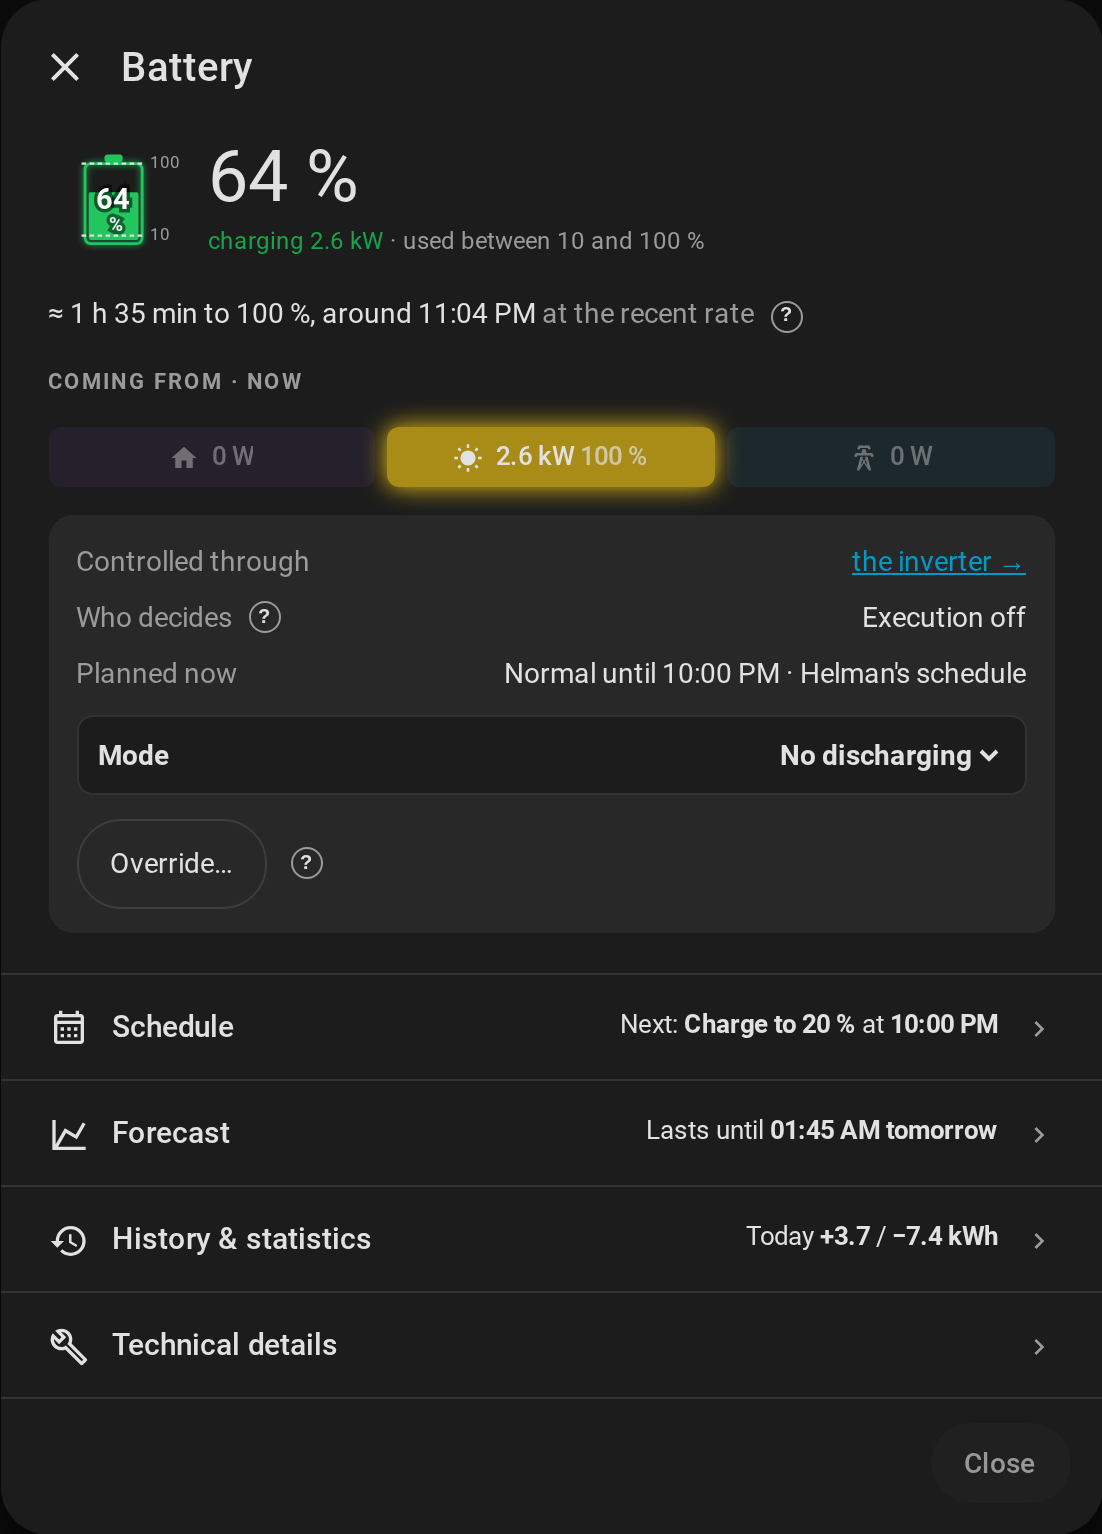
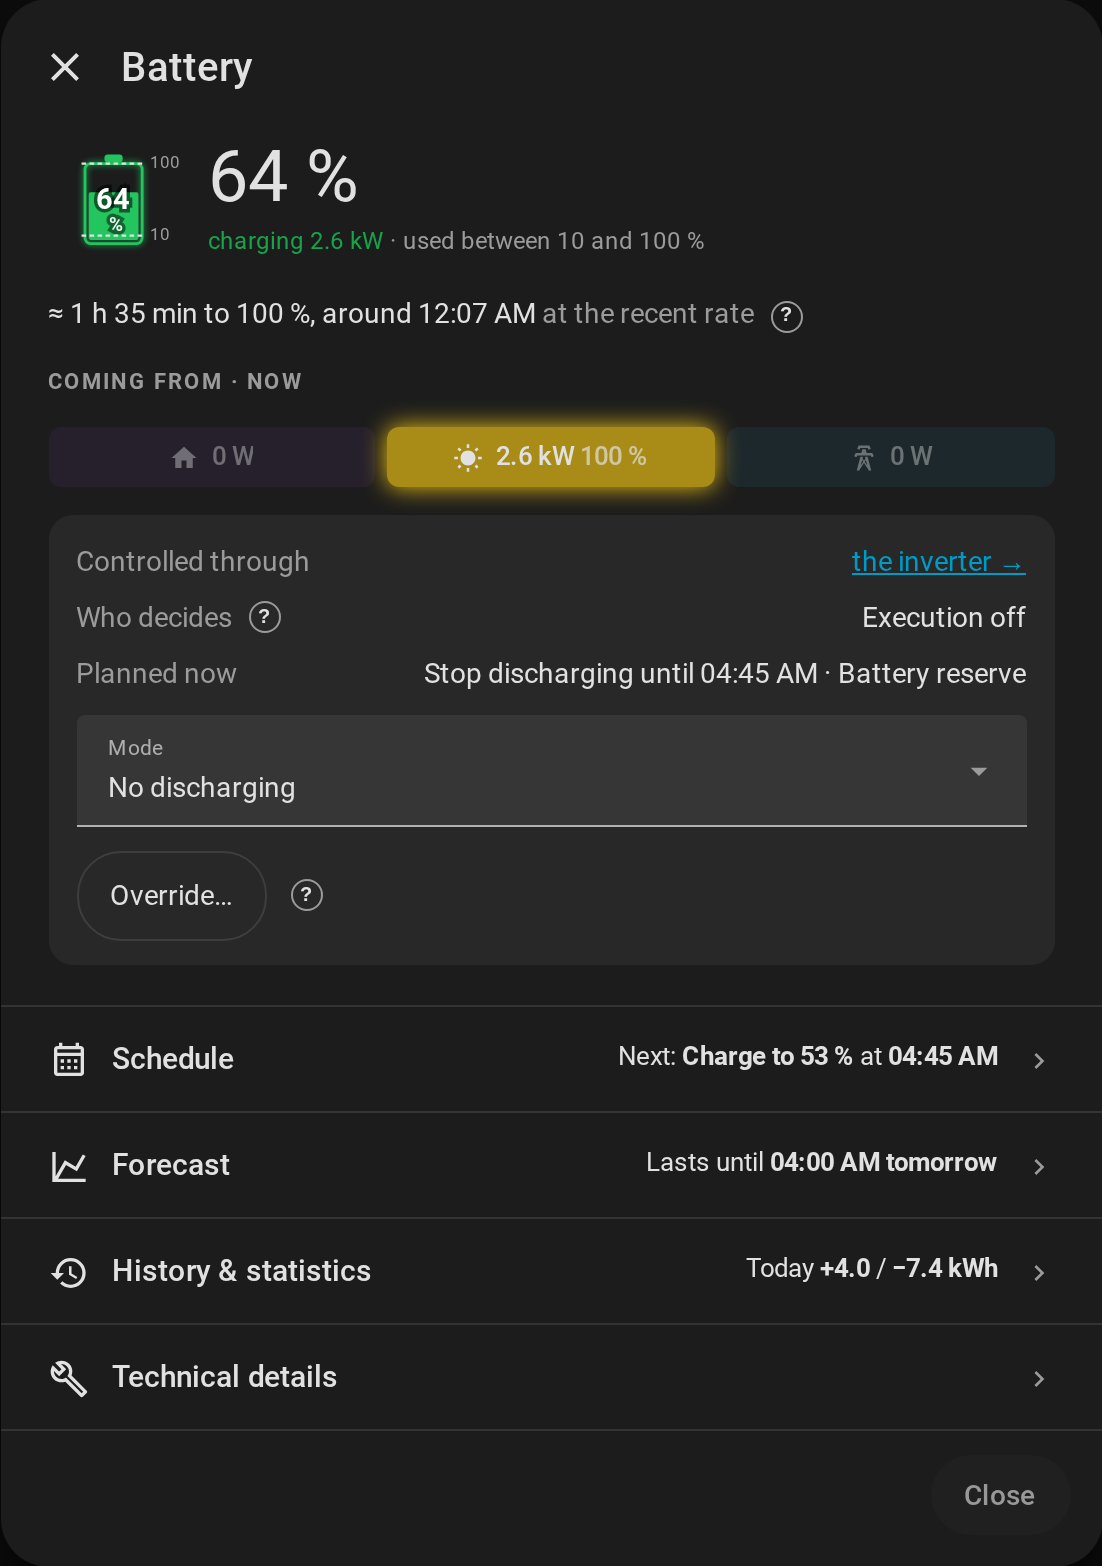
fix: use ha-select for the mode dropdown
The native select's popup did not look like Home Assistant. The >3-option mode picker now renders HA's own ha-select, and the inverter and battery docs screenshots are re-captured.

Claude-Session: https://claude.ai/code/session_018gkWQWBXzhucAVn7CvLVH2

diff --git a/frontend/cards/node-detail/option-segments.ts b/frontend/cards/node-detail/option-segments.ts
@@ -1,6 +1,5 @@
 import { LitElement, css, html, nothing } from "lit";
 import { customElement, property, state } from "lit/decorators.js";
-import { live } from "lit/directives/live.js";
 import type { HomeAssistant } from "../../types/ha";
 import { describeError } from "../shared/describe-error";
 import { isReadableState } from "../shared/power-reading";
@@ -10,7 +9,9 @@ export const MAX_SEGMENTS = 3;
 
 /**
  * One select entity's options on a single line: a segmented bar while they
- * fit, a dropdown named `name` when there are more. The picked option
+ * fit, Home Assistant's own select named `name` when there are more. The
+ * select shows a value that is no option as it is, so an unknown live state
+ * reads as a dash rather than as the first option. The picked option
  * follows the live state; a pick sets the option through the entity's own
  * domain, and a failed pick is said under the line. The picker is disabled
  * while the entity is unreadable, or when the caller says so.
@@ -27,14 +28,9 @@ export class HelmanOptionSegments extends LitElement {
         .segments button[aria-pressed="true"] { color: var(--primary-color);
             background: color-mix(in srgb, var(--primary-color) 18%, transparent); }
         .segments button:hover:not(:disabled):not([aria-pressed="true"]) { background: color-mix(in srgb, var(--primary-text-color) 6%, transparent); }
-        .dropdown { display: flex; align-items: center; justify-content: space-between; gap: 12px; min-height: 38px;
-            padding: 0 10px; border: 1px solid var(--divider-color); border-radius: 8px; background: var(--card-background-color); font-size: 14px; }
-        .dropdown .name { flex: none; font-weight: 600; }
-        .dropdown select { min-width: 0; padding: 8px 0; border: 0; background: none; color: inherit; font: inherit;
-            font-weight: 600; text-align: end; cursor: pointer; }
-        .dropdown select option { background: var(--card-background-color); color: var(--primary-text-color); }
-        button:focus-visible, select:focus-visible { outline: 2px solid var(--primary-color); outline-offset: -2px; }
-        button:disabled, select:disabled { opacity: 0.5; cursor: not-allowed; }
+        ha-select { display: block; }
+        button:focus-visible { outline: 2px solid var(--primary-color); outline-offset: -2px; }
+        button:disabled { opacity: 0.5; cursor: not-allowed; }
         .error { margin: 0; color: var(--error-color, #c62828); font-size: 12px; line-height: 1.4; }
     `;
 
@@ -66,12 +62,10 @@ export class HelmanOptionSegments extends LitElement {
             ${this.options.length <= MAX_SEGMENTS ? html`<div class="segments" role="group">
                 ${this.options.map((option) => html`<button type="button" data-option=${option} aria-pressed=${String(option === current)}
                     ?disabled=${disabled} @click=${() => this._select(option)}>${this.label(option)}</button>`)}
-            </div>` : html`<label class="dropdown"><span class="name">${this.name}</span>
-                <select data-dropdown .value=${live(current ?? "")} ?disabled=${disabled}
-                    @change=${(event: Event) => this._select((event.currentTarget as HTMLSelectElement).value)}>
-                    ${current !== undefined && this.options.includes(current) ? nothing : html`<option value=${current ?? ""} disabled selected>—</option>`}
-                    ${this.options.map((option) => html`<option value=${option} ?selected=${option === current}>${this.label(option)}</option>`)}
-                </select></label>`}
+            </div>` : html`<ha-select data-dropdown .label=${this.name} .disabled=${disabled}
+                .options=${this.options.map((option) => ({ value: option, label: this.label(option) }))}
+                .value=${current !== undefined && this.options.includes(current) ? current : "—"}
+                @selected=${(event: CustomEvent<{ value?: string }>) => { if (event.detail.value !== undefined) void this._select(event.detail.value); }}></ha-select>`}
             ${this._actionError ? html`<p class="error" role="alert" data-error>${this._actionError}</p>` : nothing}
         `;
     }

diff --git a/frontend/tests/node-detail-shared.spec.ts b/frontend/tests/node-detail-shared.spec.ts
@@ -1,11 +1,13 @@
 import { expect, test } from "@playwright/test";
 import { CARD_BUNDLE, loadBundle } from "./support/card-page";
 import { HA_DIALOG_STUB } from "./support/ha-dialog-stub";
+import { HA_SELECT_STUB } from "./support/ha-select-stub";
 import { onDashboard } from "./support/node-detail-harness";
 import { flowGlow } from "../cards/shared/flow-style";
 
 test.beforeEach(async ({ page }) => {
     await page.setContent("<div id='mount' style='width:320px'></div>");
+    await page.addScriptTag({ content: HA_SELECT_STUB });
     await page.addScriptTag({ path: CARD_BUNDLE, type: "module" });
     await page.waitForFunction(() => !!customElements.get("helman-flow-gauge"));
 });
@@ -365,7 +367,7 @@ async function mountPicker(page: import("@playwright/test").Page, options: strin
 test("a picker of up to three options is one segmented bar on one line, its live option pressed", async ({ page }) => {
     await mountPicker(page, ["fast", "eco", "stop"], "eco");
     const picker = page.locator("helman-option-segments");
-    await expect(picker.locator("select")).toHaveCount(0);
+    await expect(picker.locator("ha-select")).toHaveCount(0);
     const buttons = picker.locator(".segments button");
     await expect(buttons).toHaveText(["FAST", "ECO", "STOP"]);
     await expect(picker.locator("[aria-pressed=true]")).toHaveText("ECO");
@@ -376,15 +378,15 @@ test("a picker of up to three options is one segmented bar on one line, its live
     ]);
 });
 
-test("a picker of more than three options is a named dropdown, its live option picked", async ({ page }) => {
+test("a picker of more than three options is Home Assistant's select, named, its live option picked", async ({ page }) => {
     await mountPicker(page, ["a", "b", "c", "d"], "c");
     const picker = page.locator("helman-option-segments");
-    await expect(picker.locator("button")).toHaveCount(0);
-    await expect(picker.locator(".dropdown .name")).toHaveText("Mode");
-    const select = picker.locator("select");
-    await expect(select.locator("option")).toHaveText(["A", "B", "C", "D"]);
-    await expect(select).toHaveValue("c");
-    await select.selectOption("d");
+    await expect(picker.locator(".segments")).toHaveCount(0);
+    const select = picker.locator("ha-select");
+    await expect(select.locator("[data-label]")).toHaveText("Mode");
+    await expect(select.locator("[data-item]")).toHaveText(["A", "B", "C", "D"]);
+    await expect(select.locator("[data-value]")).toHaveText("C");
+    await select.locator("[data-item=d]").click();
     await expect.poll(() => page.evaluate(() => (window as any).__picks)).toEqual([
         { type: "call_service", domain: "select", service: "select_option", service_data: { entity_id: "select.mode", option: "d" } },
     ]);
@@ -395,14 +397,14 @@ test("a picker is disabled while its entity is unreadable, as a bar and as a dro
     await mountPicker(page, ["a", "b", "c", "d"], "unavailable");
     const pickers = page.locator("helman-option-segments");
     for (const button of await pickers.nth(0).locator("button").all()) await expect(button).toBeDisabled();
-    await expect(pickers.nth(1).locator("select")).toBeDisabled();
+    await expect(pickers.nth(1).locator("ha-select")).toHaveJSProperty("disabled", true);
 });
 
 test("a dropdown whose live value is no option shows the placeholder, never the first option", async ({ page }) => {
     await mountPicker(page, ["a", "b", "c", "d"], "unknown_mode");
     await mountPicker(page, ["a", "b", "c", "d"], "unavailable");
-    const selects = page.locator("helman-option-segments select");
-    for (const select of await selects.all()) {
-        await expect.poll(() => select.evaluate((el: HTMLSelectElement) => el.selectedOptions[0]?.textContent)).toBe("—");
+    for (const select of await page.locator("helman-option-segments ha-select").all()) {
+        await expect(select).toHaveJSProperty("value", "—");
+        await expect(select.locator("[data-value]")).toHaveText("—");
     }
 });

diff --git a/frontend/tests/support/ha-select-stub.ts b/frontend/tests/support/ha-select-stub.ts
@@ -1,0 +1,56 @@
+/**
+ * A stand-in for Home Assistant's `ha-select` inside the Playwright harness.
+ *
+ * HA defines `ha-select` at startup, so a card can use it as is; the harness
+ * has no HA, so the tag would be an empty undefined element. The stub keeps
+ * the real element's contract: `options` as `{ value, label }`, `value`,
+ * `label` and `disabled` properties; the field shows the label of the option
+ * whose value is `value`, or `value` itself when no option has it; a pick
+ * fires `selected` with `{ value }` only when it differs, and never changes
+ * `value` itself. Like the real one, a disabled select renders no items.
+ *
+ * The field is `[data-value]`, the name `[data-label]`, each item a
+ * `button[data-item]` a spec clicks to pick.
+ */
+export const HA_SELECT_STUB = `
+class HelmanTestHaSelect extends HTMLElement {
+    constructor() {
+        super();
+        this.attachShadow({ mode: "open" });
+        this._props = { options: [], value: undefined, label: "", disabled: false };
+    }
+    connectedCallback() { this._render(); }
+    _render() {
+        const { options, value, label, disabled } = this._props;
+        const picked = options.find((option) => String(option.value) === String(value));
+        const root = this.shadowRoot;
+        root.innerHTML = "";
+        const name = document.createElement("span");
+        name.dataset.label = "";
+        name.textContent = label;
+        const field = document.createElement("span");
+        field.dataset.value = "";
+        field.textContent = picked ? picked.label : value ?? "";
+        root.append(name, field);
+        if (disabled) return;
+        for (const option of options) {
+            const item = document.createElement("button");
+            item.dataset.item = option.value;
+            item.textContent = option.label;
+            item.addEventListener("click", () => {
+                if (option.value !== this._props.value) this.dispatchEvent(new CustomEvent("selected", { detail: { value: option.value } }));
+            });
+            root.append(item);
+        }
+    }
+}
+for (const key of ["options", "value", "label", "disabled"]) {
+    Object.defineProperty(HelmanTestHaSelect.prototype, key, {
+        get() { return this._props[key]; },
+        set(next) { this._props[key] = next; this._render(); },
+    });
+}
+if (!customElements.get("ha-select")) {
+    customElements.define("ha-select", HelmanTestHaSelect);
+}
+`;

diff --git a/frontend/tests/node-detail-inverter.spec.ts b/frontend/tests/node-detail-inverter.spec.ts
@@ -396,14 +396,15 @@ test("inverter control tile's mode dropdown lists the configured modes, the comm
     await mount(page);
     await page.locator(".inverter-cell").click();
     const picker = content(page).locator("helman-control-tile [data-mode-picker]");
-    await expect(picker.locator("button")).toHaveCount(0);
-    await expect(picker.locator(".dropdown .name")).toHaveText("Mode");
-    const select = picker.locator("select");
-    await expect(select.locator("option")).toHaveText(["Normal", "No charging", "No discharging", "Charging", "Discharging", "No export"]);
-    await expect(select).toHaveValue("normal");
-    await expect(select).toBeEnabled();
+    await expect(picker.locator(".segments")).toHaveCount(0);
+    const select = picker.locator("ha-select");
+    await expect(select.locator("[data-label]")).toHaveText("Mode");
+    await expect(select.locator("[data-item]")).toHaveText(["Normal", "No charging", "No discharging", "Charging", "Discharging", "No export"]);
+    await expect(select).toHaveJSProperty("value", "normal");
+    await expect(select.locator("[data-value]")).toHaveText("Normal");
+    await expect(select).toHaveJSProperty("disabled", false);
 
-    await select.selectOption("stop_export");
+    await select.locator("[data-item=stop_export]").click();
     await expect.poll(() => page.evaluate(() => window.__InverterRequests.filter((r) => r.type === "call_service"))).toEqual([
         { type: "call_service", domain: "select", service: "select_option", service_data: { entity_id: "select.helman_inverter_mode", option: "stop_export" } },
     ]);
@@ -412,7 +413,7 @@ test("inverter control tile's mode dropdown lists the configured modes, the comm
 test("inverter control tile's mode dropdown is disabled while the mode control is unreadable", async ({ page }) => {
     await mount(page, { modeUnavailable: true });
     await page.locator(".inverter-cell").click();
-    await expect(content(page).locator("[data-mode-picker] select")).toBeDisabled();
+    await expect(content(page).locator("[data-mode-picker] ha-select")).toHaveJSProperty("disabled", true);
 });
 
 test("inverter Overview has no mode picker without a mode control", async ({ page }) => {

diff --git a/frontend/tests/support/node-detail-harness.ts b/frontend/tests/support/node-detail-harness.ts
@@ -2,6 +2,7 @@ import { expect, type Locator, type Page } from "@playwright/test";
 import { installMockHass, type MockReplies, type MockRequest } from "./mock-hass";
 import { FIXED_NOW_ISO, installFixedClock } from "./fixed-clock";
 import { HA_DIALOG_STUB } from "./ha-dialog-stub";
+import { HA_SELECT_STUB } from "./ha-select-stub";
 import { CARD_BUNDLE } from "./card-page";
 import { cardTree } from "./payload-builders";
 export { treeNode } from "./payload-builders";
@@ -49,6 +50,7 @@ export async function prepareNodeDetailPage(page: Page): Promise<void> {
     await page.setContent("<!doctype html><html><body style='margin:0'></body></html>");
     await installMockHass(page);
     await page.addScriptTag({ content: HA_DIALOG_STUB });
+    await page.addScriptTag({ content: HA_SELECT_STUB });
     await page.addScriptTag({ content: `window.__nodeDetailState = ${state.toString()}; window.__inverterOverview = ${inverterOverview.toString()};` });
     await page.evaluate(() => {
         window.__configureNodeDetail = (options) => {

diff --git a/frontend/tests/node-detail-battery.spec.ts b/frontend/tests/node-detail-battery.spec.ts
@@ -235,8 +235,8 @@ test("battery's control tile is the inverter's lane: controlled through it, who 
     // Controlled through comes first, then the tile's own rows, then the mode picker.
     expect(await tile.evaluate((el) => Array.from(el.shadowRoot!.querySelectorAll("slot")).map((slot) => slot.assignedElements().map((e) => e.hasAttribute("data-controlled-through") ? "through" : e.tagName.toLowerCase())))).toEqual([["through"], ["helman-option-segments"]]);
     const picker = tile.locator("[data-mode-picker]");
-    await expect(picker.locator("select")).toHaveValue("stop_discharging");
-    await expect(picker.locator("select option:checked")).toHaveText("No discharging");
+    await expect(picker.locator("ha-select")).toHaveJSProperty("value", "stop_discharging");
+    await expect(picker.locator("ha-select [data-value]")).toHaveText("No discharging");
     await expect(tile.locator("[data-override]")).toHaveText("Override…");
 });
 
